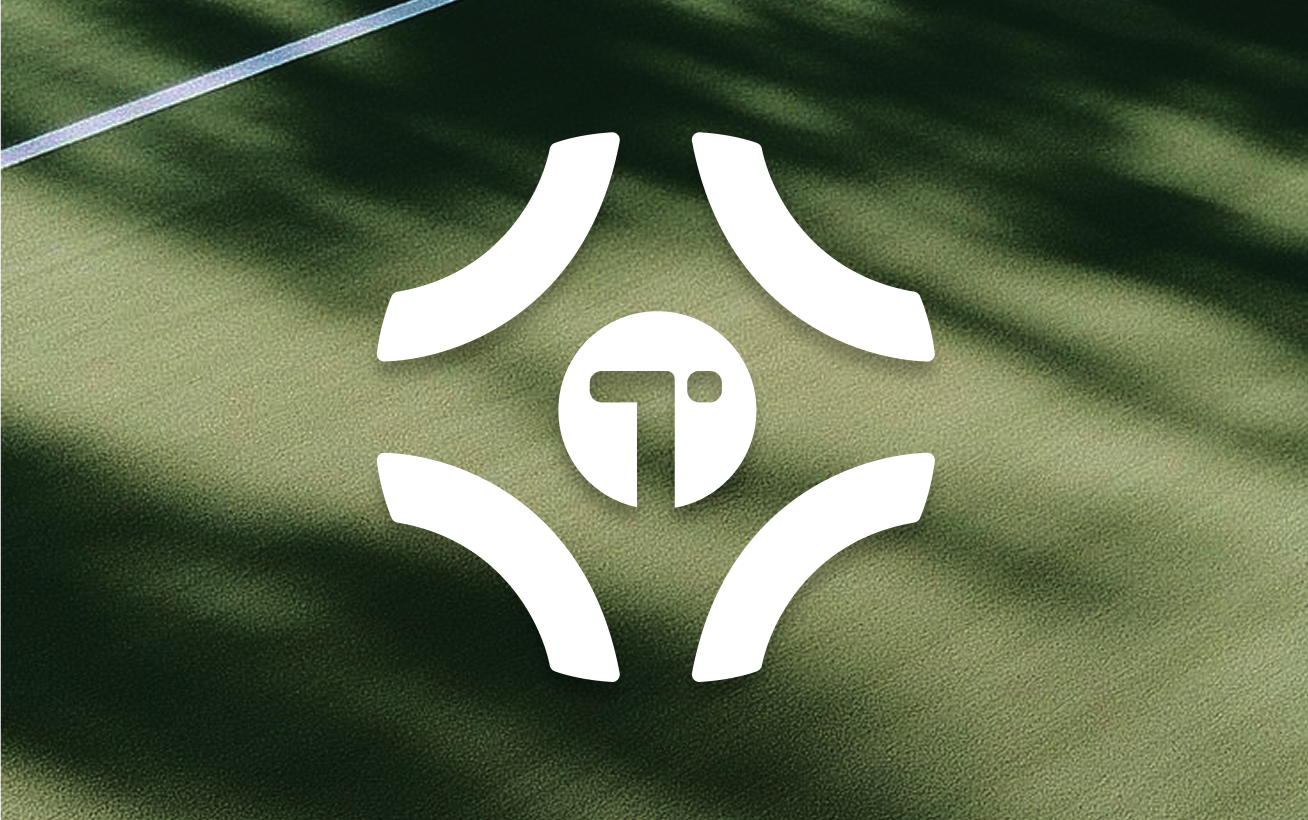
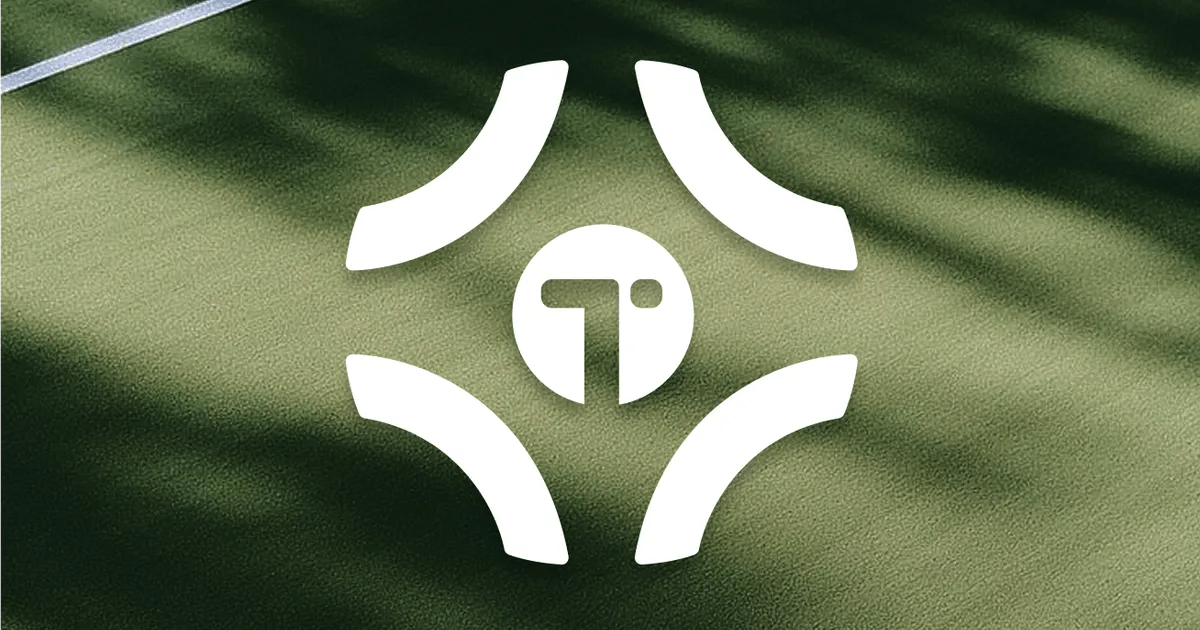
fix og-image

diff --git a/src/app/layout.tsx b/src/app/layout.tsx
@@ -66,17 +66,18 @@ export const metadata: Metadata = {
     },
   ],
   publisher: 'Tactix',
+  metadataBase: new URL('https://tactix-front.vercel.app/'),
   openGraph: {
     title: 'Tactix - Football Analysis Platform',
     description:
-      'Advanced football analysis platform for coaches, analysts, and scouts. Visualize tactics, track player performance, and gain deep insights into match statistics.',
+    'Advanced football analysis platform for coaches, analysts, and scouts. Visualize tactics, track player performance, and gain deep insights into match statistics.',
     url: 'https://tactix-front.vercel.app/',
     siteName: 'Tactix',
     images: [
       {
         url: '/og-images/og-image.png',
-        // width: 1200,
-        // height: 630,
+        width: 1200,
+        height: 630,
         alt: 'Tactix Dashboard Preview',
       },
     ],
@@ -92,8 +93,8 @@ export const metadata: Metadata = {
     images: [
       {
         url: '/og-images/og-image.png',
-        // width: 1200,
-        // height: 630,
+        width: 1200,
+        height: 630,
         alt: 'Tactix Dashboard Preview',
       },
     ],
